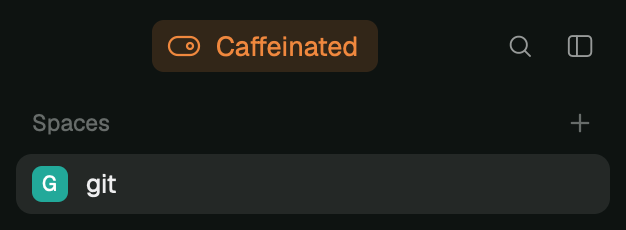
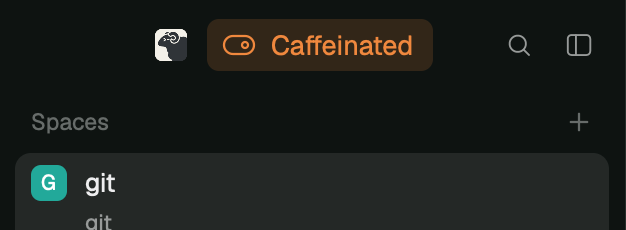
✏🍱 readme, recipe and preview for espresso switch

diff --git a/RECIPE.md b/RECIPE.md
@@ -1,55 +1,65 @@
-# Caffeinate
+# Espresso Switch
 
-The top row of Herdr's sidebar with a Caffeinate button where the Herdr logo was. One click keeps the Mac awake and the button turns orange and reads "Caffeinated"; another click lets it sleep again. Search and the sidebar toggle sit to its right as before.
+The top row of Herdr's sidebar with an Espresso switch beside the Herdr logo. One click keeps the Mac awake through [espresso](https://github.com/Hanyang-Li/espresso) and the button turns orange and reads "Caffeinated"; another click lets it sleep again and the button reads "Drink Espresso". Search and the sidebar toggle sit to its right as before.
 
-![Caffeinate](preview.png)
+![Espresso Switch](preview.png)
 
 **What you see**
 
 - **The row** (46px tall, the sidebar's `brand` block, full sidebar width): the theme's `chrome` background, 13.5px text, 14px padding on the left and 10px on the right, 4px gaps. On macOS, outside fullscreen, the left padding is 76px to clear the traffic lights.
-- **Caffeinate button** (26px tall, left aligned, 6px corner radius, 7px left and 9px right padding, semibold): an 18px switch icon, a 7px gap, then the label.
-  - Off: icon `toggle-left.svg` (knob on the left), label "Caffeinate", both in the theme's `dim` color, no fill. Hover: the theme's `hover` fill and `muted` text.
+- **Logo**: Herdr's own `frame/welcome/herdr.png`, 20px square with 5px corners, at the left, 8px before the switch. The "Herdr" wordmark is gone; the switch has its place. With `LOGO = false` the logo is left out and the switch starts the row.
+- **Espresso button** (26px tall, 6px corner radius, 7px left and 9px right padding, semibold): an 18px switch icon, a 7px gap, then the label.
+  - Off: icon `toggle-left.svg` (knob on the left), label "Drink Espresso", both in the theme's `dim` color, no fill. Hover: the theme's `hover` fill and `muted` text.
   - On: icon `toggle-right.svg` (knob on the right), label "Caffeinated", both `#f0883e`, on a `#f0883e29` fill. Hover: `#f0883e40`.
 - **Search** and **sidebar toggle**: two 26px square buttons with 15px icons in the `muted` color, on the right. Hover: the `hover` fill and `foreground` color.
-- **On the narrow sidebar rail** (sidebar under 160px wide): the Caffeinate button and search are hidden and the left padding is 6px. Off macOS the sidebar toggle remains; on macOS the row is empty, because the traffic lights fill it.
+- **On the narrow sidebar rail** (sidebar under 160px wide): the logo, the Espresso button and search are hidden and the left padding is 6px. Off macOS the sidebar toggle remains; on macOS the row is empty, because the traffic lights fill it.
 
 **How it behaves**
 
-- Clicking the Caffeinate button flips it. On starts `/usr/bin/caffeinate -dims` detached and writes its pid to `<herdr-app home>/caffeinate.pid`; off kills that process and removes the file. The button redraws from what the script reports, not from the click.
-- The tooltip reads "Caffeinate is on: this Mac stays awake" or "Caffeinate is off: this Mac sleeps as usual".
-- State is read when the mod loads and every 30 seconds after, so a `caffeinate` that ended elsewhere shows as off.
-- Only the process named in the pid file counts. A `caffeinate` started some other way does not turn the button on and is not killed by it. A stale pid (the process is gone, or the pid now belongs to another program) counts as off.
+- Clicking the Espresso button flips it. On starts `espresso -- /bin/sh -c 'while kill -0 "$PPID" 2>/dev/null; do sleep 5; done'` detached and writes its pid to `<herdr-app home>/espresso-switch.pid`; off kills that `espresso` and removes the file. The button redraws from what the script reports, not from the click.
+- espresso keeps the Mac awake for as long as the command it was given runs. The command given here only waits for espresso itself to go away, so killing `espresso` ends both within five seconds and nothing is left behind.
+- The tooltip reads "Espresso is on: this Mac stays awake", "Espresso is off: this Mac sleeps as usual", or, when the `espresso` program is not found, "espresso is not installed: see github.com/Hanyang-Li/espresso".
+- State is read when the mod loads and every 30 seconds after, so an `espresso` that ended elsewhere shows as off.
+- Only the process named in the pid file counts. An `espresso` started some other way does not turn the button on and is not killed by it. A stale pid (the process is gone, or the pid now belongs to another program) counts as off.
 - The process outlives Herdr: quit Herdr with the button on and the Mac stays awake; the button is still on at the next start.
+- espresso holds an idle system sleep assertion only. The display can still sleep and lock. With espresso's helper installed (`sudo espresso daemon install`) the same session also keeps the Mac awake with the lid closed; without it, closing the lid sleeps the Mac.
 - Search opens the `picker` mod. The sidebar toggle narrows the sidebar to the rail (76px on macOS, 44px elsewhere), remembering its width, or restores it (268px if none was remembered).
 - Clicks on the three buttons do not start a window drag; the rest of the row does.
 - Agent status plays no part in this mod.
 
 **Built from**
 
-- `mods/caffeinate/main.js`: one `View`. `mod.json`: `{ "place": "none", "title": "Caffeinate" }` (plus `cloned_from` `workspace-chrome` 0.1.15, whose brand half this row replaces; the footer stays with the shipped `workspace-chrome`).
-- Layout: the sidebar column's first block, `{ "id": "brand", "type": "block", "content": { "mod": "caffeinate" }, "size": { "px": 46 }, "window_drag": true }`.
-- `gpui-kit`: `View`, `div`, `svg`; `gpui-base`: `h_flex`. `cx.timer.every(30000, ...)` for the re-read, `cx.spawn` around the `exec`, `cx.notify()` after it.
+- `mods/espresso-switch/main.js`: one `View`. `mod.json`: `{ "place": "none", "title": "Espresso Switch" }` (plus `cloned_from` `workspace-chrome` 0.1.15, whose brand half this row replaces; the footer stays with the shipped `workspace-chrome`).
+- Layout: the sidebar column's first block, `{ "id": "brand", "type": "block", "content": { "mod": "espresso-switch" }, "size": { "px": 46 }, "window_drag": true }`.
+- Two constants at the top of `main.js`: `DIR` (`"mods/espresso-switch"`, the folder the icon paths are built from) and `LOGO` (`true`).
+- `gpui-kit`: `View`, `div`, `image`, `svg`; `gpui-base`: `h_flex`. `cx.timer.every(30000, ...)` for the re-read, `cx.spawn` around the `exec`, `cx.notify()` after it.
 - `herdr` functions: `exec` (`sh -c <script> sh <pid file> <on|off|nothing>`), `appHome` (where the pid file goes), `theme`, `window` (`platform`, `fullscreen`), `layout` (the `sidebar` node's `size.px`), `shared` / `setShared` (`sidebar.width`, `sidebar.collapsed`), `run` (`mod.open {name: "picker"}`, `layout.resize {id: "sidebar", px}`).
-- The script, one for reading and flipping: read the pid from the file; "alive" means `ps -p <pid> -o comm=` ends in `caffeinate`; `on` starts `nohup /usr/bin/caffeinate -dims </dev/null >/dev/null 2>&1 &` and writes `$!` unless alive; `off` kills it if alive and removes the file; it ends by printing `on` or `off`.
+- The script, one for reading and flipping: read the pid from the file; find `espresso` on the `PATH`, else `~/.local/bin/espresso`, and print `missing` and stop if neither can be run; "alive" means `ps -p <pid> -o comm=` ends in `espresso`; `on` starts the command above with `nohup` and `</dev/null >/dev/null 2>&1 &`, writes `$!`, and waits up to half a second for the process to show as alive, unless one is alive already; `off` kills it if alive and removes the file; it ends by printing `on` or `off`.
 - Art: `toggle-left.svg`, `toggle-right.svg`, `search.svg`, `sidebar.svg`: 24px stroke icons, 1.5 stroke width, `currentColor`.
 
 **Watch out**
 
-- macOS only: `/usr/bin/caffeinate` does not exist elsewhere.
+- Apple Silicon macOS only: espresso ships no other build.
+- espresso's timer mode (`-t`) needs a real terminal and fails when detached. Use the command mode.
+- Killing only `espresso` orphans an ordinary child command such as `sleep`. That is why the child here watches `$PPID` and ends by itself.
+- Herdr's `exec` may not have `~/.local/bin` on its `PATH`, which is where espresso's installer puts it. Fall back to that path.
 - Start the process with `nohup` and all three streams redirected, or `exec` waits for it and the button never updates.
+- Right after it starts, the pid can still name the shell that is about to become `espresso`. Checking once reports off for a session that is on; retry briefly.
 - Check the pid's command name, not only that the pid exists: pids are reused.
+- With no terminal espresso skips its offer to install the lid-closed helper and prints a note to stderr. That is expected.
 - `herdr-app check` runs the mod's `exec` for real. With no third argument the script only reads state, so a check never flips it.
 - Themes name no orange, so the on color is fixed at `#f0883e` and does not change with the theme.
-- Icon paths are from the herdr-app home (`mods/caffeinate/toggle-left.svg`); rename the folder and they must change too.
+- Icon paths are from the herdr-app home (`mods/espresso-switch/toggle-left.svg`); rename the folder and `DIR` must change too.
 - Whether the sidebar is the rail goes by its width (under 160px), not by a flag, because dragging its edge narrows it too. `sidebar.collapsed` is still set for mods that read it.
 - Shipped layouts and mods are rewritten on every start: put the block in your own layout and keep this mod in its own folder.
-- Built against Herdr 0.1.15 on macOS.
+- Built against Herdr 0.1.15 and espresso 1.0.0 on macOS.
 
 **Done when**
 
-- `herdr-app check mods/caffeinate` passes and `herdr-app status` shows no errors.
-- With the button off, `caffeinate.pid` is absent. Clicking it makes the button orange and "Caffeinated", and `ps -p $(cat ~/.config/herdr-app/caffeinate.pid) -o comm=` prints `/usr/bin/caffeinate`.
-- Clicking again kills that process, removes the file, and the button reads "Caffeinate" in the dim color.
+- `herdr-app check mods/espresso-switch` passes and `herdr-app status` shows no errors.
+- With the button off, `espresso-switch.pid` is absent and the button reads "Drink Espresso" in the dim color. Clicking it makes the button orange and "Caffeinated", `ps -p $(cat ~/.config/herdr-app/espresso-switch.pid) -o comm=` ends in `espresso`, and `pmset -g assertions` lists "espresso session".
+- Clicking again kills that process, removes the file, and within five seconds no child of it is left running.
 - Killing the process by hand turns the button off within 30 seconds.
-- A `caffeinate` started in a terminal leaves the button off, and switching the button on and off leaves that process running.
+- An `espresso` started in a terminal leaves the button off, and switching the button on and off leaves that process running.
+- With `espresso` moved away the button stays off and the tooltip says it is not installed.
 - Search opens the picker; the sidebar toggle goes to the rail and back to the previous width.

diff --git a/README.md b/README.md
@@ -1,39 +1,49 @@
-# herdr-caffeinate
+# herdr-espresso-switch
 
-A Caffeinate button for [Herdr](https://github.com/herdrdev/herdr-app): keep your Mac awake while your agents work.
+An Espresso switch for [Herdr](https://github.com/herdrdev/herdr-app): keep your Mac awake while your agents work. It runs on top of [espresso](https://github.com/Hanyang-Li/espresso).
 
-![Caffeinate button in the Herdr sidebar](preview.png)
+![Espresso switch in the Herdr sidebar](preview.png)
 
-It takes the place of the Herdr logo at the top left of the sidebar. Click it and the Mac stops sleeping; the button turns orange and reads **Caffeinated**. Click again and the Mac sleeps as usual. Search and the sidebar toggle stay where they were.
+It sits beside the Herdr logo at the top left of the sidebar and reads **Drink Espresso**. Click it and the Mac stops going to sleep; the button turns orange and reads **Caffeinated**. Click again and the Mac sleeps as usual. Search and the sidebar toggle stay where they were.
 
 ## Requirements
 
-- Herdr 0.1.15 or newer, on macOS (it runs `/usr/bin/caffeinate`)
+- Herdr 0.1.15 or newer, on an Apple Silicon Mac
+- [espresso](https://github.com/Hanyang-Li/espresso), on your `PATH` or at `~/.local/bin/espresso`:
+
+  ```sh
+  curl -fsSL https://raw.githubusercontent.com/Hanyang-Li/espresso/main/install.sh | sh
+  ```
+
+- Optional, to stay awake with the lid closed: `sudo espresso daemon install`. Without it, closing the lid still puts the Mac to sleep.
 
 ## Install
 
-Ask your agent to add `github.com/reeeeeee-dev/herdr-caffeinate` to Herdr, or do it by hand:
+Ask your agent to add `github.com/reeeeeee-dev/herdr-espresso-switch` to Herdr, or do it by hand:
 
-1. Copy `mods/caffeinate/` to `~/.config/herdr-app/mods/caffeinate/`.
+1. Copy `mods/espresso-switch/` to `~/.config/herdr-app/mods/espresso-switch/`.
 2. In your layout, point the sidebar's `brand` block at the mod. Shipped layouts are rewritten on start, so do this in your own (cloned) layout:
 
    ```json
-   { "id": "brand", "type": "block", "content": { "mod": "caffeinate" }, "size": { "px": 46 }, "window_drag": true }
+   { "id": "brand", "type": "block", "content": { "mod": "espresso-switch" }, "size": { "px": 46 }, "window_drag": true }
    ```
 
-3. `herdr-app check ~/.config/herdr-app/mods/caffeinate`
+3. `herdr-app check ~/.config/herdr-app/mods/espresso-switch`
 
 ## What it touches
 
-- **Programs:** the mod runs `sh`, which starts or stops `/usr/bin/caffeinate -dims` (no display, idle, disk or system sleep).
-- **Files:** one file outside the mod's folder, `~/.config/herdr-app/caffeinate.pid`, naming the process it started.
+- **Programs:** the mod runs `sh`, which starts or stops `espresso -- /bin/sh -c '<wait for espresso to end>'`. espresso keeps the Mac from idle sleep for as long as that command runs.
+- **Files:** one file outside the mod's folder, `~/.config/herdr-app/espresso-switch.pid`, naming the process it started.
 - **Network:** none.
 
 ## Good to know
 
-- The `caffeinate` process is detached, so the Mac stays awake after you close or quit Herdr. Switch it off before you leave, or run `kill $(cat ~/.config/herdr-app/caffeinate.pid)`.
-- The button only tracks the `caffeinate` it started. One started elsewhere does not turn the button on and is never killed by it.
-- State is re-read every 30 seconds, so a `caffeinate` ended some other way shows as off within that time.
+- espresso prevents system sleep, not display sleep: the screen can still dim, turn off and lock while the Mac stays awake.
+- The `espresso` process is detached, so the Mac stays awake after you close or quit Herdr. Switch it off before you leave, or run `kill $(cat ~/.config/herdr-app/espresso-switch.pid)`.
+- The button only tracks the `espresso` it started. One started elsewhere does not turn the button on and is never killed by it.
+- State is re-read every 30 seconds, so an `espresso` ended some other way shows as off within that time.
+- If espresso is not installed the button stays off and its tooltip says so.
+- Two constants at the top of `main.js`: `DIR` is the mod's folder (change it if you rename the folder, or the icons go missing), and `LOGO = false` leaves the Herdr logo out so the switch takes its place.
 - The orange is fixed (`#f0883e`) and does not follow the theme.
 
 `RECIPE.md` is the brief another agent can rebuild this mod from.
